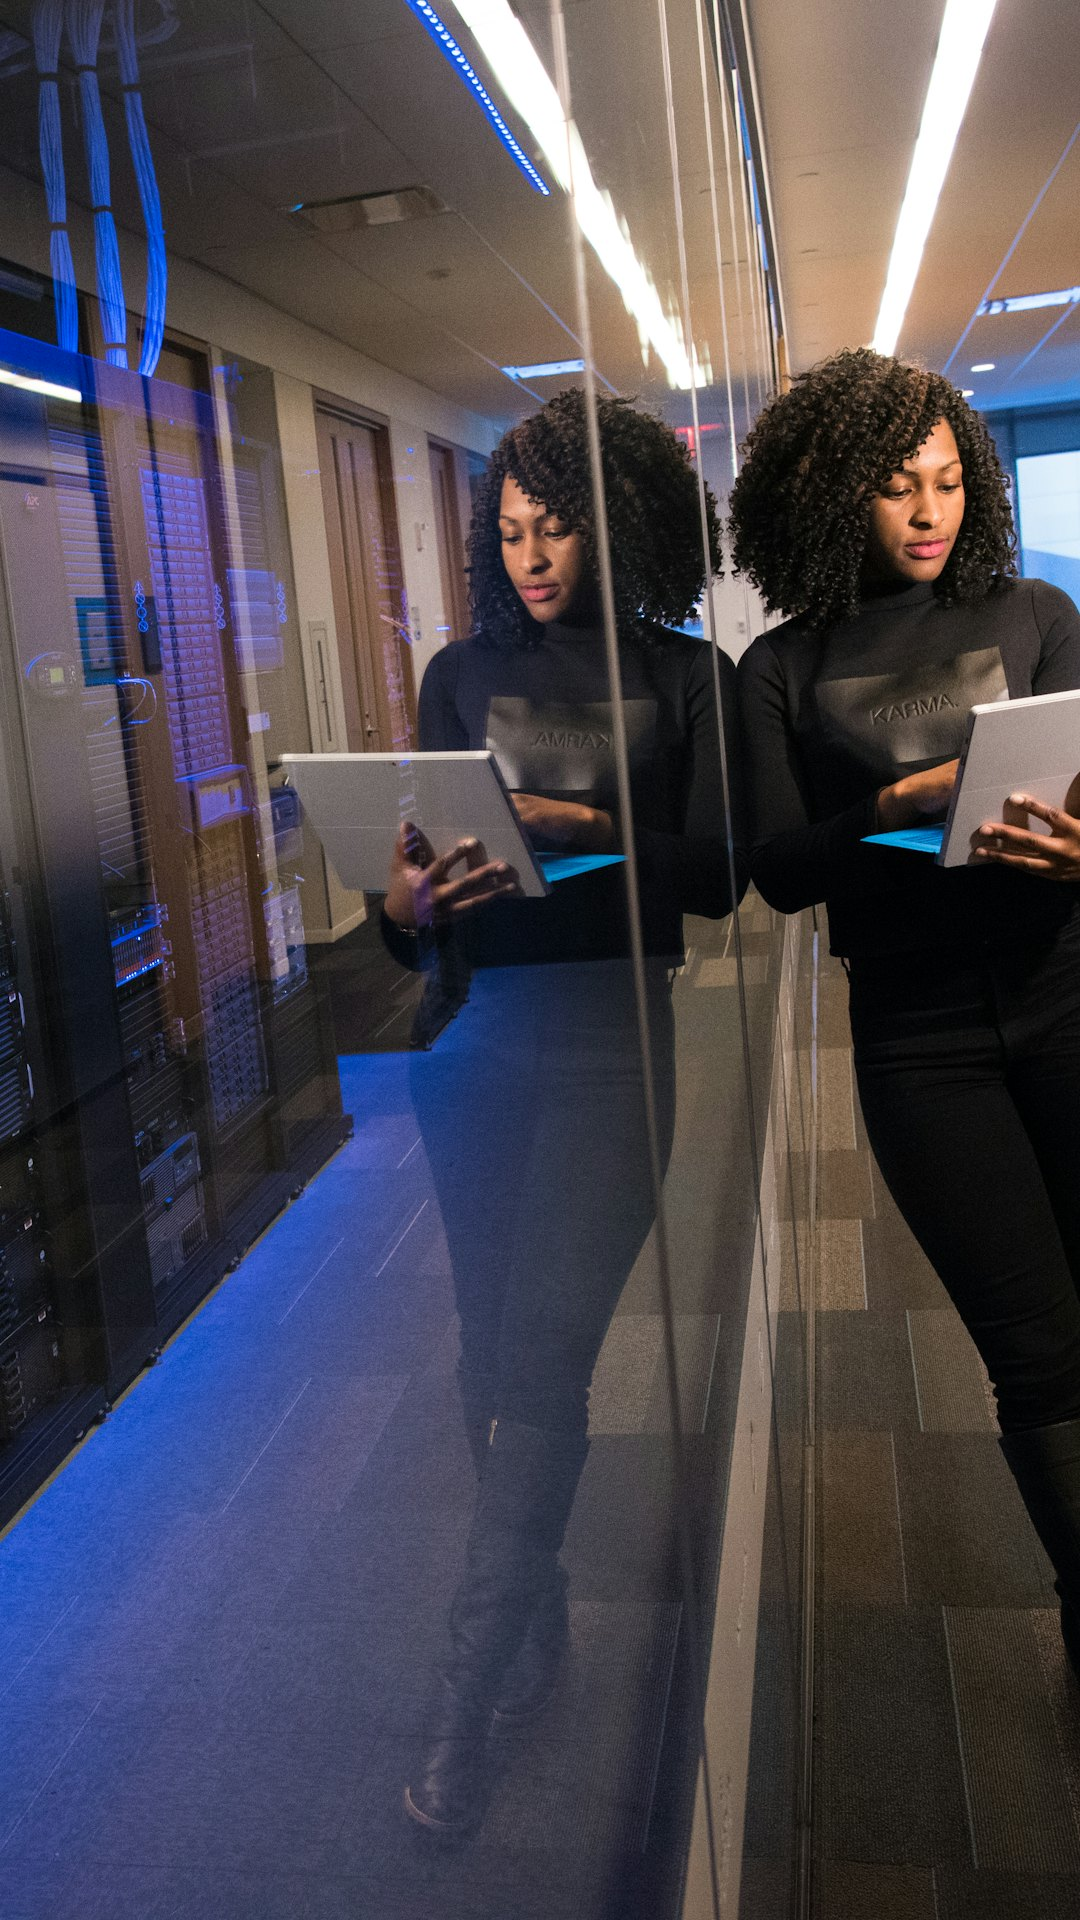
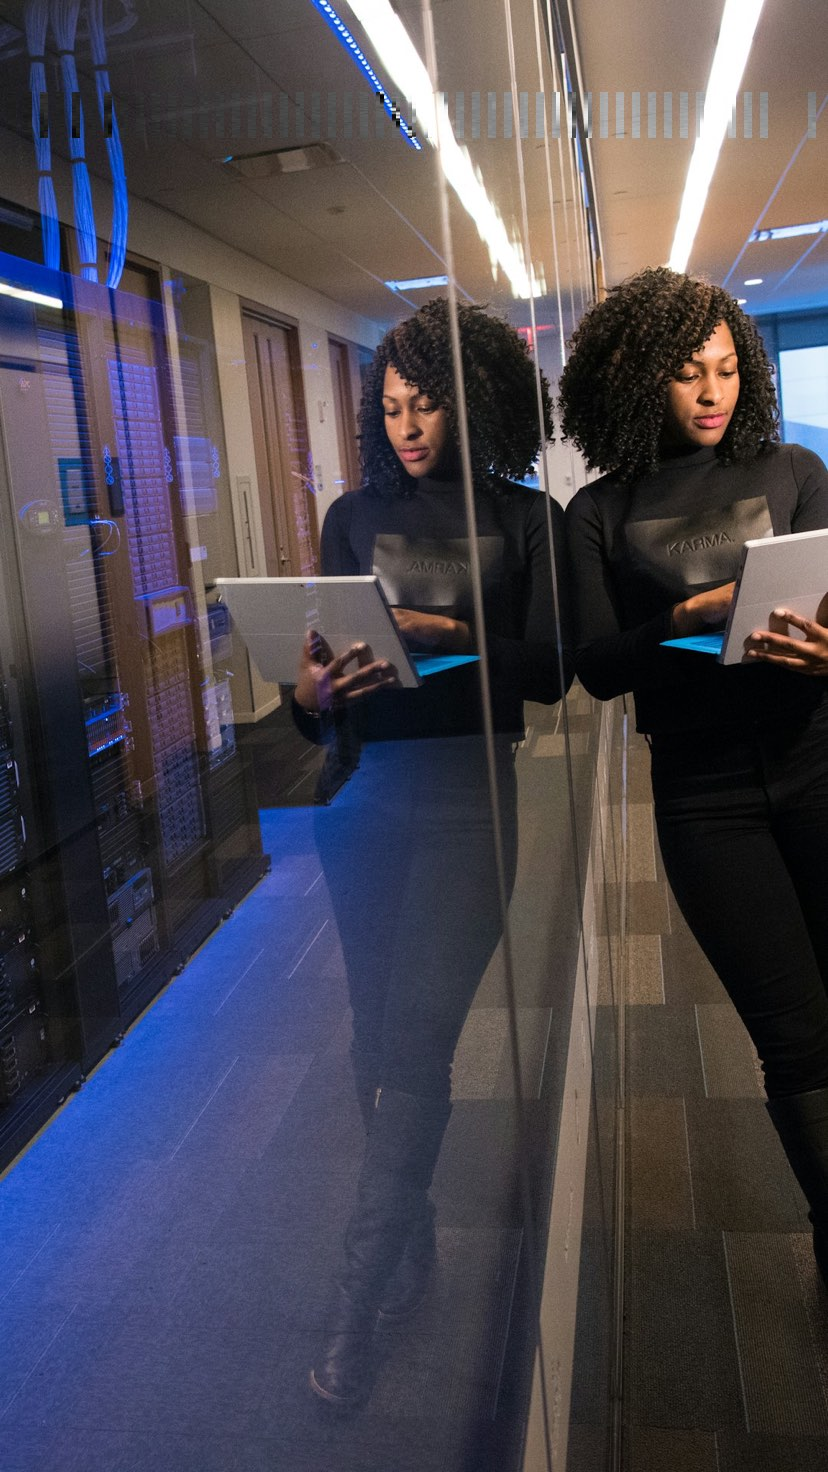
fix(zarn): sign-in sheet follows the iOS keyboard; instant boot screen; lighter carousel images

diff --git a/src/app/zarn/zarn.css b/src/app/zarn/zarn.css
@@ -1270,7 +1270,9 @@ html[data-kb] .zn-prompt{display:none}
 /* Sign-in on phones: full-screen photo carousel + slide-up sign-in sheet (desktop keeps the split layout) */
 .zn-slides,.zn-sheet-scrim,.zn-sheet-grab,.zn-sheet-close{display:none}
 @media(max-width:860px){
- .zarn-auth.has-slides{display:block;background:#000}
+ /* iOS doesn't shrink the page for the keyboard, so follow the visible area (set by ZarnPwa): the sheet then sits on top of the keyboard, not under it */
+ .zarn-auth{inset:auto;left:0;right:0;top:var(--zvt,0px);height:var(--zvh,100dvh);min-height:0;overflow-y:auto;overscroll-behavior:contain}
+ .zarn-auth.has-slides{display:block;background:#000;overflow:hidden}
  .has-slides .zn-auth-brand{display:none}
  .has-slides .zn-slides{display:block;position:fixed;inset:0;background:#000}
  .zn-slides-track{display:flex;height:100%;overflow-x:auto;scroll-snap-type:x mandatory;scrollbar-width:none}
@@ -1293,9 +1295,9 @@ html[data-kb] .zn-prompt{display:none}
  .zn-pill{width:100%;height:54px;border-radius:999px;font-size:16px;font-weight:700}
  .zn-pill.is-solid{background:#fff;color:#0a0a0c}
  .zn-pill.is-solid:active{transform:scale(.98)}
- .has-slides .zn-sheet-scrim{display:block;position:fixed;inset:0;z-index:4;background:rgba(0,0,0,.55);opacity:0;pointer-events:none;transition:opacity .3s}
+ .has-slides .zn-sheet-scrim{display:block;position:absolute;inset:0;z-index:4;background:rgba(0,0,0,.55);opacity:0;pointer-events:none;transition:opacity .3s}
  .has-slides.is-sheet .zn-sheet-scrim{opacity:1;pointer-events:auto}
- .has-slides .zn-auth-card{position:fixed;z-index:5;left:0;right:0;bottom:0;max-height:92dvh;overflow-y:auto;justify-content:flex-start;padding:10px 22px calc(env(safe-area-inset-bottom) + 22px);border-radius:24px 24px 0 0;transform:translateY(105%);transition:transform .38s cubic-bezier(.32,.72,0,1)}
+ .has-slides .zn-auth-card{position:absolute;z-index:5;left:0;right:0;bottom:0;max-height:92%;overscroll-behavior:contain;overflow-y:auto;justify-content:flex-start;padding:10px 22px calc(env(safe-area-inset-bottom) + 22px);border-radius:24px 24px 0 0;transform:translateY(105%);transition:transform .38s cubic-bezier(.32,.72,0,1)}
  .has-slides.is-sheet .zn-auth-card{transform:none}
  .has-slides .zn-sheet-grab{display:block;width:40px;height:5px;margin:0 auto 14px;border-radius:999px;background:var(--z-border)}
  .has-slides .zn-sheet-close{display:grid;place-items:center;position:absolute;top:14px;right:14px;width:34px;height:34px;border-radius:50%;background:var(--z-panel-2);color:var(--z-muted)}
@@ -1305,3 +1307,7 @@ html[data-kb] .zn-prompt{display:none}
  .has-slides .zn-auth-form .zn-btn.is-block{height:52px;border-radius:999px;font-size:16px}
  .has-slides .zn-auth-foot{margin-top:18px;text-align:center}
 }
+
+/* Instant screen while ZARN's first data loads (shown before the shell exists) */
+.zn-boot{position:fixed;inset:0;display:grid;place-items:center;background:#0a0a0c}
+.zn-boot img{width:72px;height:72px;border-radius:20px;animation:zn-pulse 1.2s ease-in-out infinite}

diff --git a/src/components/zarn/ZarnAuth.tsx b/src/components/zarn/ZarnAuth.tsx
@@ -51,7 +51,11 @@ export default function ZarnAuth({initial,name='',title='',notice=''}:{initial:V
  const [sheet,setSheet]=useState(!!notice);
  const email=useRef<HTMLInputElement>(null);
  useEffect(()=>{if(!window.matchMedia('(max-width: 860px)').matches)email.current?.focus();},[]);
- function openSheet(){setSheet(true);email.current?.focus();}
+ // No programmatic focus on phones: focusing a field that is still sliding in off-screen makes iOS raise the keyboard
+ // without bringing the field into view. The person taps the field once the sheet is up.
+ function openSheet(){setSheet(true);}
+ // Keep the tapped field clear of the keyboard once the visible area has resized.
+ function onFocus(e:React.FocusEvent<HTMLFormElement>){const el=e.target;setTimeout(()=>el.scrollIntoView({block:'center',behavior:'smooth'}),320);}
  async function submit(e:React.FormEvent<HTMLFormElement>){
   e.preventDefault();setBusy(true);setMsg('');const f=new FormData(e.currentTarget);
   try{
@@ -72,7 +76,7 @@ export default function ZarnAuth({initial,name='',title='',notice=''}:{initial:V
    {login&&<span className="zn-sheet-grab" aria-hidden/>}
    {login&&<button type="button" className="zn-sheet-close" aria-label="Close" onClick={()=>setSheet(false)}><X size={18}/></button>}
    <h2>{copy[view].title}</h2><p className="zn-note">{copy[view].sub}</p>
-   <form onSubmit={submit} className="zn-auth-form">
+   <form onSubmit={submit} onFocus={onFocus} className="zn-auth-form">
     {login&&<label className="zn-label">Email<input ref={email} className="zn-input" name="email" type="email" autoComplete="email" autoCapitalize="none" required/></label>}
     {login&&<Pw name="password" label="Password" auto="current-password"/>}
     {view==='welcome'&&<><label className="zn-label">Your name<input className="zn-input" name="display_name" required maxLength={80} defaultValue={name}/></label><label className="zn-label">Title (optional)<input className="zn-input" name="title" maxLength={80} defaultValue={title} placeholder="e.g. Product designer"/></label></>}

diff --git a/src/app/zarn/loading.tsx b/src/app/zarn/loading.tsx
@@ -1,0 +1,4 @@
+// Painted the moment the page shell arrives, while the signed-in layout is still fetching members and channels.
+export default function Loading(){
+ return <div className="zn-boot" aria-busy="true" aria-label="Loading"><img src="/zarnlogo.png" alt="ZARN"/></div>;
+}
